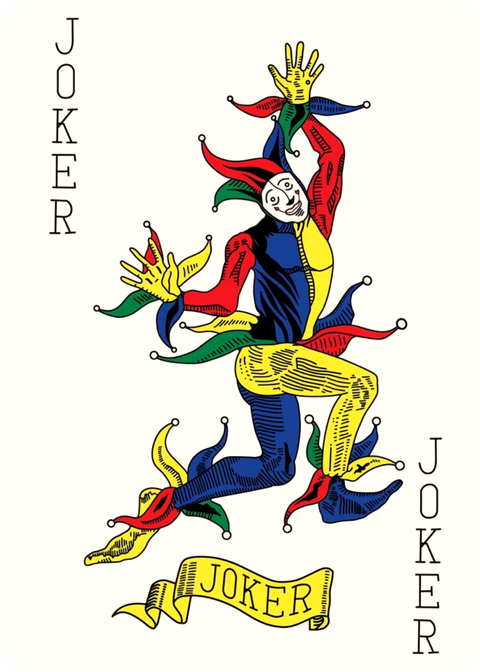
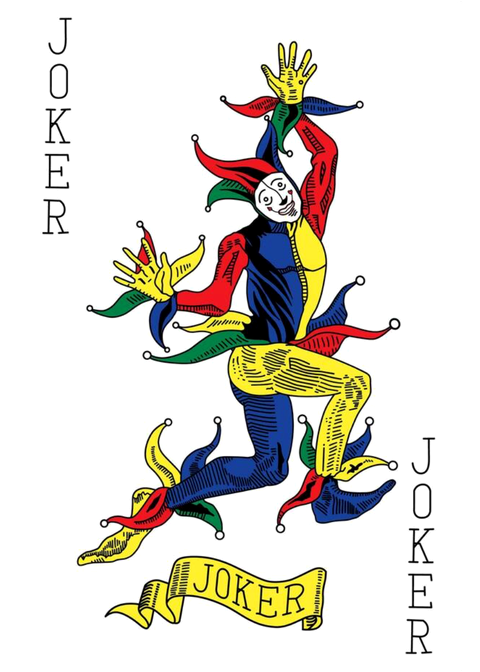
feat: replace cards with UNO back, Pokémon back, The World tarot, Joker
- New cards from Untitled design-6: UNO, World tarot, Joker, Pokémon
- Pokémon card last in DOM (appears alone first, stays on top)
- All resized to 480×672, rounded corners, no background removal
- Same card-deal animation: Pokémon first → others slide out into a line

Changed region(s): [[0.1562, 0.0625, 0.9375, 1.0], [0.0938, 0.0, 0.1562, 0.375]]

diff --git a/index.html b/index.html
@@ -44,10 +44,10 @@
       <div class="landing-glow" id="landing-glow-bg" aria-hidden="true"></div>
 
       <div class="cards-container" id="cards-container">
-        <div class="card-img" id="card-1"><img src="assets/images/card-magician.png" alt="De Magiër tarotkaart" /></div>
-        <div class="card-img" id="card-2"><img src="assets/images/card-king.png"     alt="Schoppen Heer" /></div>
-        <div class="card-img" id="card-3"><img src="assets/images/card-joker.png"    alt="Joker kaart" /></div>
-        <div class="card-img" id="card-4"><img src="assets/images/card-pikachu.png"  alt="Pokémon kaart" /></div>
+        <div class="card-img" id="card-1"><img src="assets/images/card-uno.png"     alt="UNO kaart" /></div>
+        <div class="card-img" id="card-2"><img src="assets/images/card-world.png"   alt="The World tarotkaart" /></div>
+        <div class="card-img" id="card-3"><img src="assets/images/card-joker.png"   alt="Joker kaart" /></div>
+        <div class="card-img" id="card-4"><img src="assets/images/card-pokemon.png" alt="Pokémon kaart" /></div>
       </div><!-- /cards-container -->
 
       <div class="landing-texts">